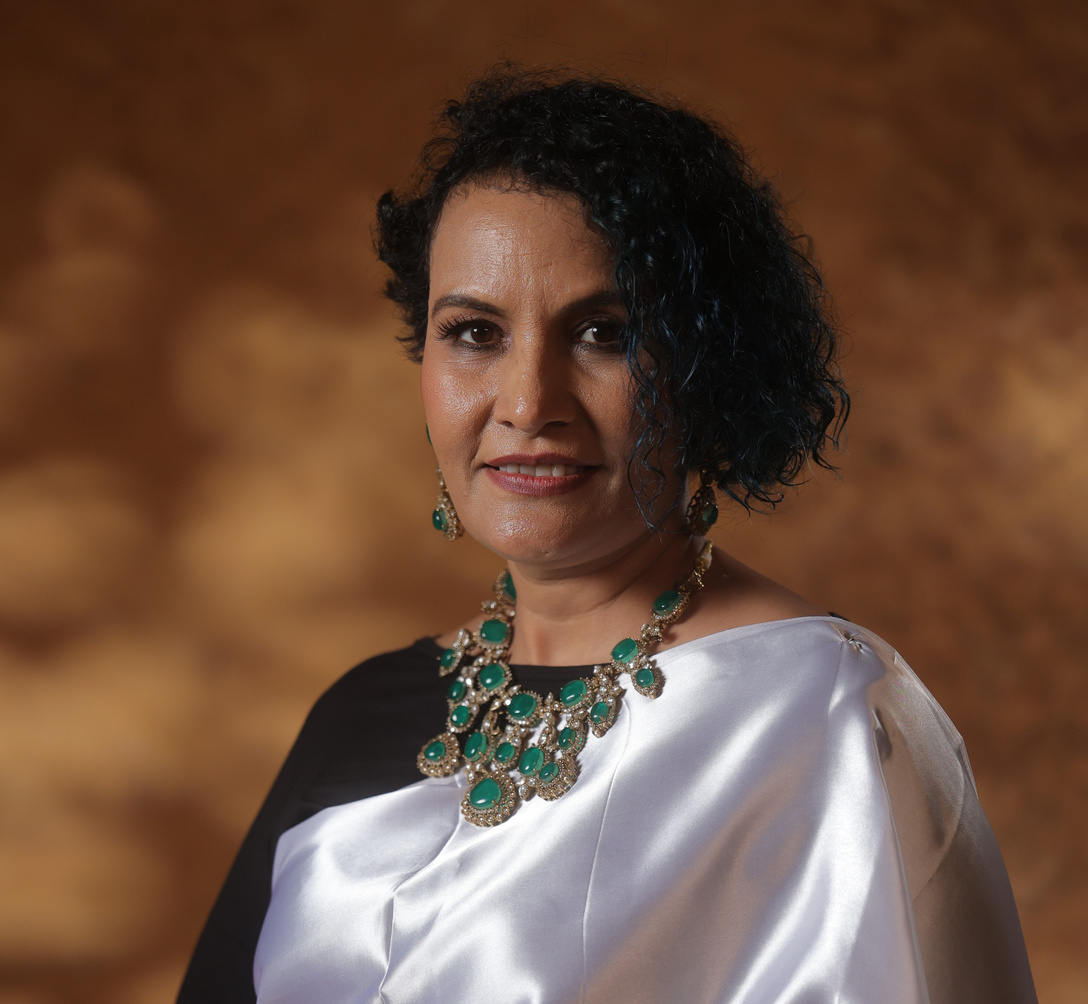
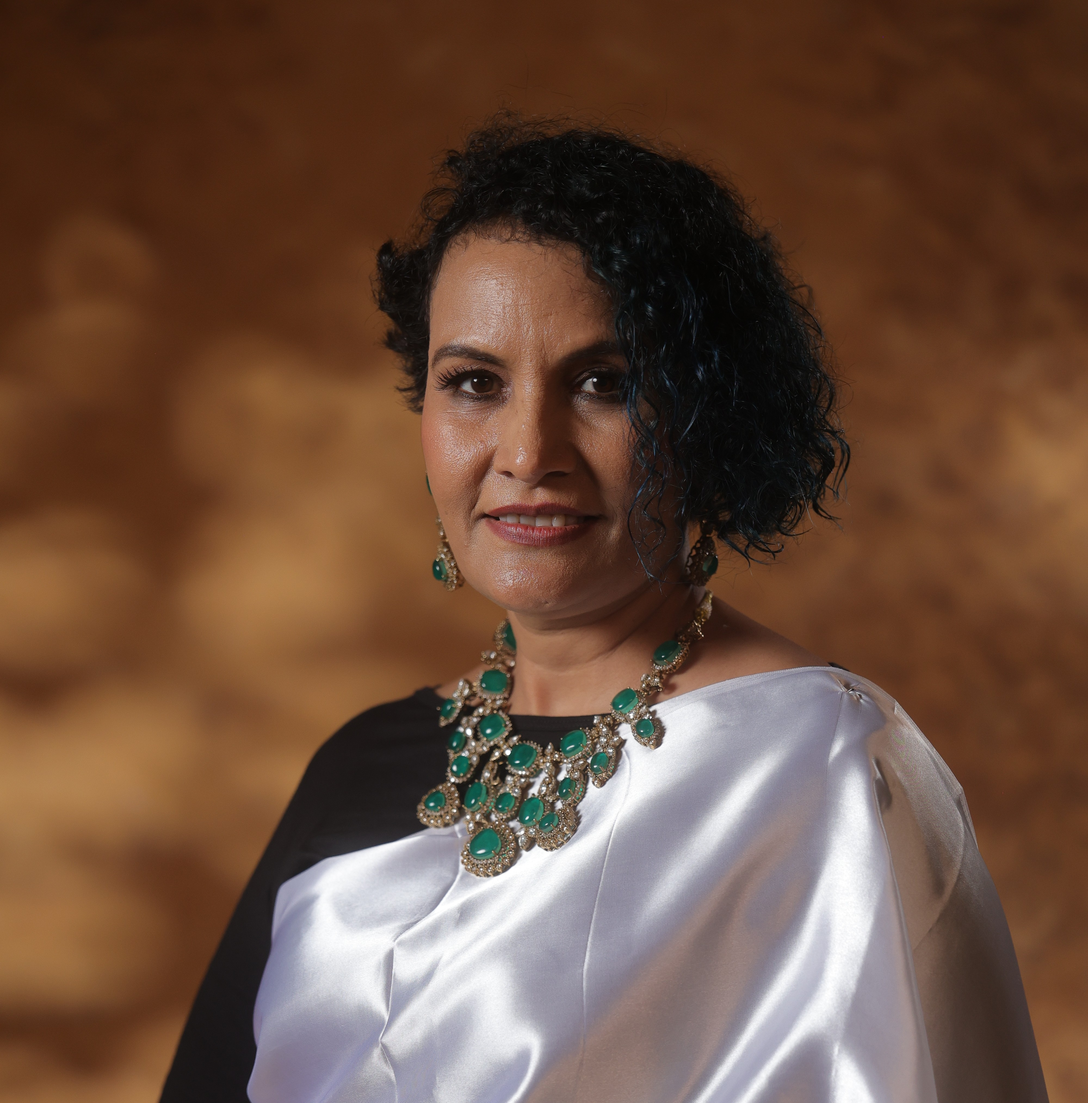
Speakers Update

diff --git a/index.html b/index.html
@@ -263,7 +263,7 @@
             </article>
 
             <article class="speaker-card">
-                <img src="./assets/deepak-vikhe.jpg" alt="Dr. Deepak M. Vikhe" onerror="this.style.display='none'; this.nextElementSibling.style.display='grid';">
+                <img src="./assets/deepak-vikhe.png" alt="Dr. Deepak M. Vikhe" onerror="this.style.display='none'; this.nextElementSibling.style.display='grid';">
                 <div class="speaker-photo-fallback" aria-hidden="true">DV</div>
                 <div class="overlay">
                     <div class="speaker-name">Dr. Deepak M. Vikhe, PhD</div>
@@ -308,6 +308,60 @@
                     <div class="speaker-name">Ritu Insan</div>
                     <div class="speaker-designation">Founder, Talented Ritu Insan</div>
                     <p class="speaker-bio">With 20+ years of experience and 50+ branches across India, Ritu has trained 4 lakh+ women in fashion, stitching, and garment making. Her mission of Mahila Sashaktikaran drives her to turn every woman's skill into confidence, income, and independence.</p>
+                </div>
+            </article>
+            <article class="speaker-card">
+                <img src="./assets/Sourav Mahajan.png" alt="Sourav Mahajan" onerror="this.style.display='none'; this.nextElementSibling.style.display='grid';">
+                <div class="speaker-photo-fallback" aria-hidden="true">SM</div>
+                <div class="overlay">
+                    <div class="speaker-name">Sourav Mahajan</div>
+                    <div class="speaker-designation">Founder, Talented Sourav Mahajan</div>
+                    <p class="speaker-bio">With 20+ years of experience and 50+ branches across India, Sourav has trained 4 lakh+ women in fashion, stitching, and garment making. His mission of Mahila Sashaktikaran drives him to turn every woman's skill into confidence, income, and independence.</p>
+                </div>
+            </article>
+            <article class="speaker-card">
+                <img src="./assets/Shivani Sharma.jpeg" alt="Shivani Sharma" onerror="this.style.display='none'; this.nextElementSibling.style.display='grid';">
+                <div class="speaker-photo-fallback" aria-hidden="true">SS</div>
+                <div class="overlay">
+                    <div class="speaker-name">Shivani Sharma</div>
+                    <div class="speaker-designation">Founder, Winq Cosmetics</div>
+                    <p class="speaker-bio">At 26, Shivangi built Winq Cosmetics to bridge the gap between aspiration and affordability in Indian beauty. Her mission: bring quality, inclusive cosmetics to women in Tier 2 and Tier 3 cities who deserve premium beauty without the premium price tag.</p>
+                </div>
+            </article>
+            <article class="speaker-card">
+                <img src="./assets/Neera Paritosh.jpeg" alt="Neera Paritosh" onerror="this.style.display='none'; this.nextElementSibling.style.display='grid';">
+                <div class="speaker-photo-fallback" aria-hidden="true">NP</div>
+                <div class="overlay">
+                    <div class="speaker-name">Neera Paritosh</div>
+                    <div class="speaker-designation">Life Coach, Author & Educator</div>
+                    <p class="speaker-bio">With 34 years as an educator and a powerful post-pandemic reinvention, Neera channels life coaching, spirituality, and parenting wisdom to help people transform from within. Author of Ripple of Words and Parenting the Parent, she believes real change begins with a shift in mindset.</p>
+                </div>
+            </article>
+            <article class="speaker-card">
+                <img src="./assets/Khushali-Mehta.png" alt="Khushali Mehta" onerror="this.style.display='none'; this.nextElementSibling.style.display='grid';">
+                <div class="speaker-photo-fallback" aria-hidden="true">KM</div>
+                <div class="overlay">
+                    <div class="speaker-name">Khushali Mehta</div>
+                    <div class="speaker-designation">Entrepreneur & Social Activist</div>
+                    <p class="speaker-bio">Khushali is a passionate entrepreneur and social activist dedicated to empowering underprivileged communities. Her work focuses on creating sustainable solutions for education, healthcare, and economic development in rural areas.</p>
+                </div>
+            </article>
+            <article class="speaker-card">
+                <img src="./assets/V.C-Dinesh Kumar.jpeg" alt="V.C. Dinesh Kumar" onerror="this.style.display='none'; this.nextElementSibling.style.display='grid';">
+                <div class="speaker-photo-fallback" aria-hidden="true">VK</div>
+                <div class="overlay">
+                    <div class="speaker-name">V.C. Dinesh Kumar</div>
+                    <div class="speaker-designation">Vice Chancellor, Shri Vishwakarma Skill University (SVSU)</div>
+                    <p class="speaker-bio">Leading India's first Government Skill University — ranked 3rd nationally in 2025 — Prof. Dinesh Kumar is transforming how India thinks about education. His vision bridges skill-based learning with Industry 4.0, empowering youth in Robotics, AI, EVs, and Semiconductors to become job-ready innovators and entrepreneurs.</p>
+                </div>
+            </article>
+            <article class="speaker-card">
+                <img src="./assets/Dr. Raj Nehru.png" alt="Dr. Raj Nehru" onerror="this.style.display='none'; this.nextElementSibling.style.display='grid';">
+                <div class="speaker-photo-fallback" aria-hidden="true">RN</div>
+                <div class="overlay">
+                    <div class="speaker-name">Dr. Raj Nehru</div>
+                    <div class="speaker-designation">OSD to CM of Haryana | Director General, SJHIFM</div>
+                    <p class="speaker-bio">A visionary at the intersection of policy, education, and skill development, Dr. Raj Nehru founded India's first Government Skill University and shaped the NEP 2020 framework. Today, as OSD to Haryana's Chief Minister and DG of SJHIFM, he is driving the state's future through data-led fiscal policy and youth empowerment.</p>
                 </div>
             </article>
             </div>
